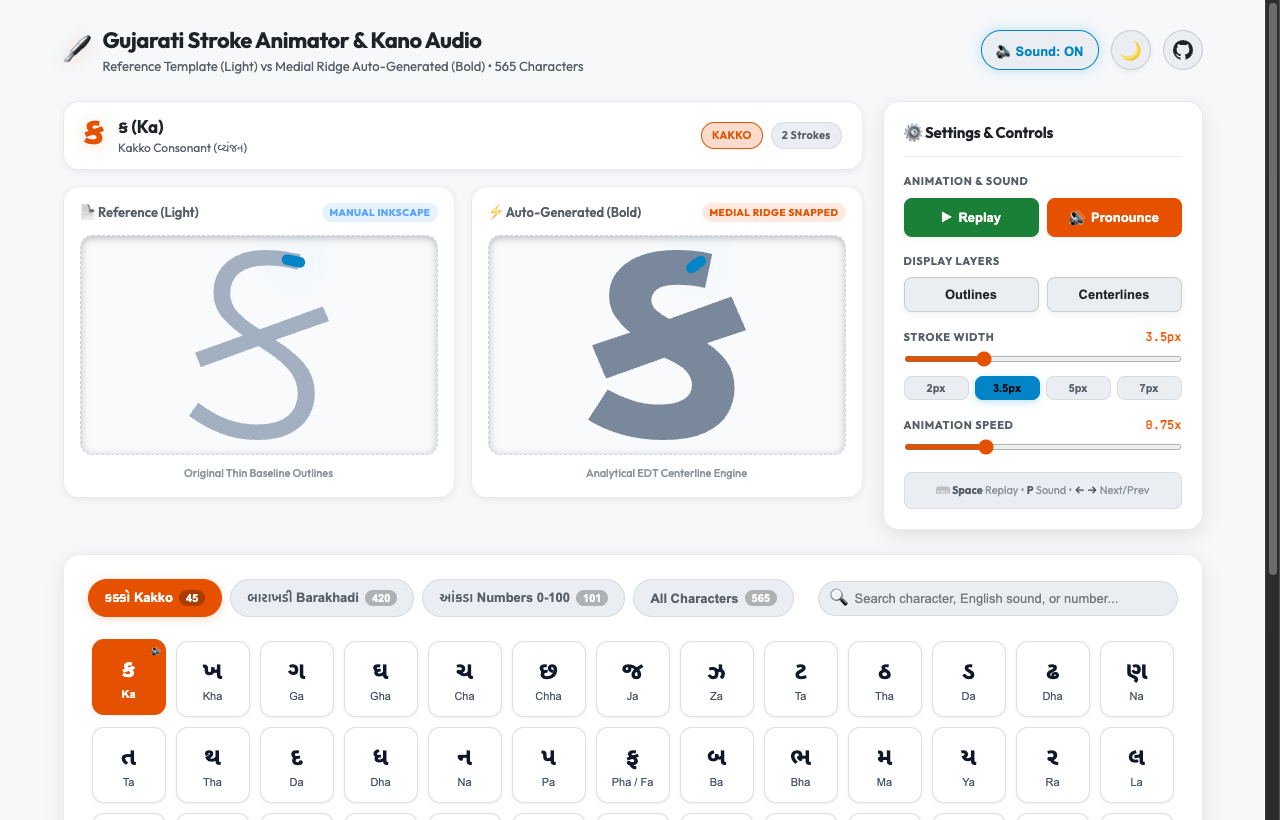
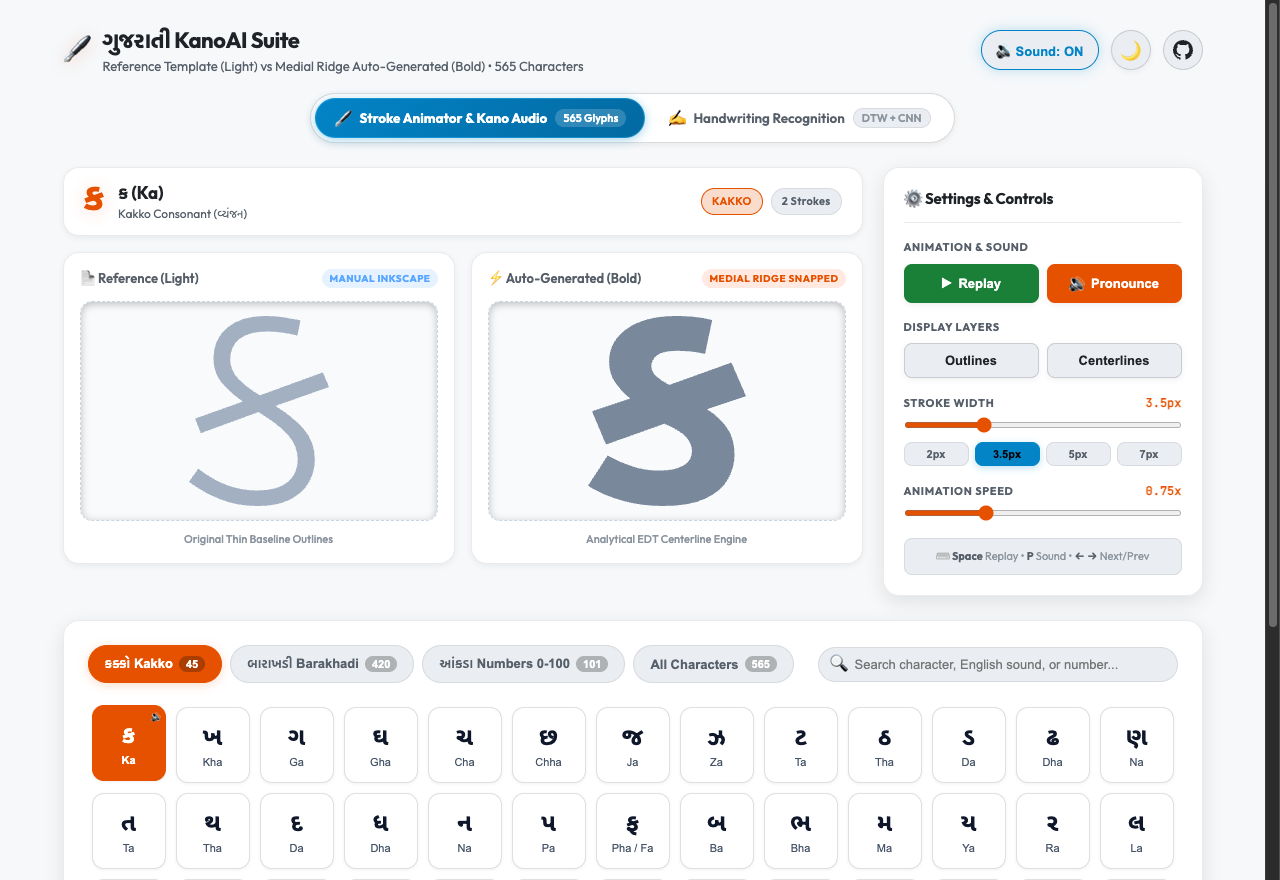
docs(readme): update screenshots and preview sections for KanoAI

diff --git a/README.md b/README.md
@@ -29,14 +29,14 @@ An open-source ecosystem bridging classical Gujarati typography, dynamic stroke 
 | **🗣 Kano Voice (TTS)** | 🚧 **In Progress** | Neural Text-to-Speech generation optimized for Gujarati phonetics and intonation. |
 | **🎙 Kano Listen (STT)** | 📋 **Planned** | Offline & low-latency Gujarati Speech-to-Text acoustic modeling. |
 | **🧠 Kano Grammar (AI)** | 📋 **Planned** | LLM-assisted Gujarati spell-checker, grammar analysis, sandhi/samasa parser, and NLP toolkits. |
-| **⚡ Kano API** | 📋 **Planned** | Lightweight REST / JSON microservices for characters, strokes, phonemes, and audio. |nguage-gen/)
+| **⚡ Kano API** | 📋 **Planned** | Lightweight REST / JSON microservices for characters, strokes, phonemes, and audio. |
 
 ---
 
-## 📁 Repository Structure by Language
+## 📁 Repository Structure
 
 ```
-gujarati-language-gen/
+KanoAI/
 ├── handwriting/                  # Real-Time Gujarati Handwriting Recognition & Practice Workspace
 │   ├── src/                      # Canvas, Guided Tracing, Quiz, Free Draw, Hybrid DTW + Tiny CNN
 │   ├── __tests__/                # Automated test suites (30 tests)
@@ -86,7 +86,7 @@ The live web application provides an interactive stroke animator and audio playe
 - **Mobile Responsive Design**: Clean side-by-side stages, compact slider grids, and touch-optimized character targets on mobile viewports.
 - **Zero-Click GitHub Pages Deployment**: Fully automated via [`.github/workflows/deploy-pages.yml`](.github/workflows/deploy-pages.yml).
 
-### 🖥 Application Previews
+### 🖥 Stroke Animator & Audio Previews
 
 | Dark Theme (Default) | Light Theme |
 | :---: | :---: |
@@ -104,6 +104,10 @@ A complete handwriting recognition and practice suite featuring:
 - **Quiz Game**: Gamified learning pairing Gujarati vocabulary, native audio pronunciation, and interactive drawing challenges.
 - **Free Drawing & Recognition**: Multi-stroke canvas powered by a **Hybrid Recognition Engine** combining **Sakoe-Chiba Dynamic Time Warping (DTW)** and an in-memory **Tiny CNN (Conv2D/MaxPool/Dense)** classifier.
 - **Accuracy Benchmarks**: Automated performance testing verifying sub-20ms latency and high recognition accuracy across characters.
+
+### 🖥 Handwriting Suite Preview
+
+[![Handwriting Recognition & Practice Suite Preview](docs/assets/preview-handwriting.png)](https://gajjartejas.github.io/KanoAI/handwriting/)
 
 ```bash
 cd handwriting
